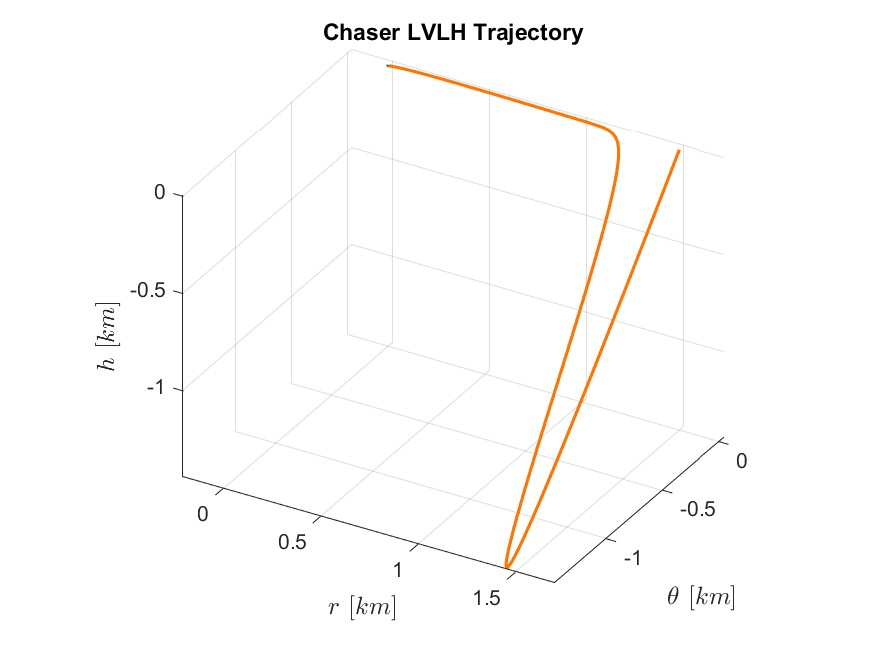
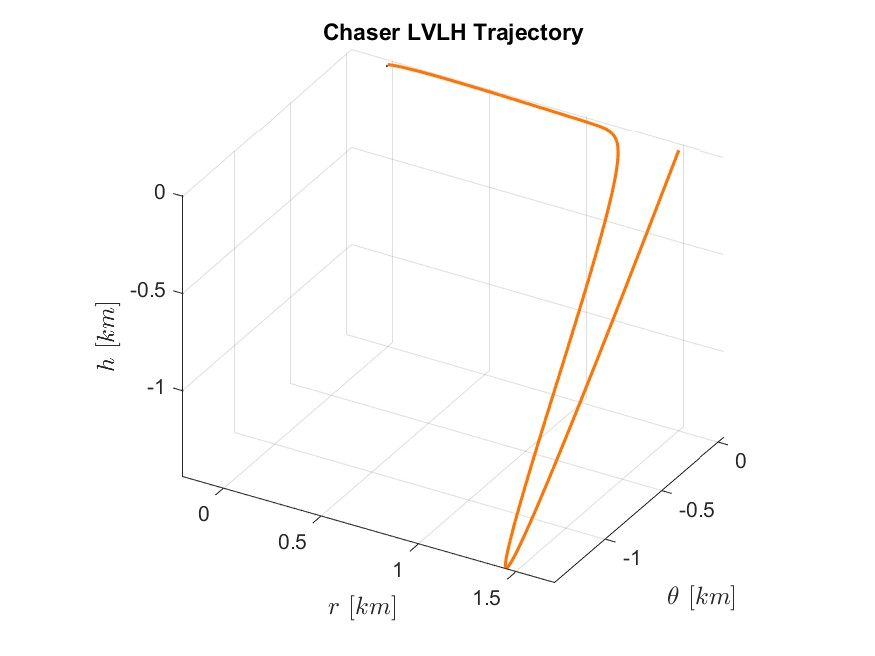
requires fixing

diff --git a/Library/Dario/ChebyschevReferenceTrajectory.m b/Library/Dario/ChebyschevReferenceTrajectory.m
@@ -1,4 +1,4 @@
-function [RHOrefPPs, viapoints, tspan_viapoints] = ChebyschevReferenceTrajectory(initialRelativeState, finalRelativeState, t0, tf)
+function [RHOrefPPs, viapoints, tspan_viapoints] = ChebyschevReferenceTrajectory(TC0, TCf, t0, tf)
 % Description: this function computes reference trajectory that should be followed by
 % the chaser during the approach to the target (rendezvous). This is
 % carried out in target LVLH frame, so we work with relative distances
@@ -17,22 +17,26 @@ function [RHOrefPPs, viapoints, tspan_viapoints] = ChebyschevReferenceTrajectory
 % 
 % Credits: This function was developed building upon a core reference 
 % provided by Dario Sanna.
+% 
+% Note: I have added the trajectory verification step.
+
+global DU
 
 % Initial conditions
-rho_r0 = initialRelativeState(7);
-rho_theta0 = initialRelativeState(8);
-rho_h0 = initialRelativeState(9);
+rho_r0 = TC0(7);
+rho_theta0 = TC0(8);
+rho_h0 = TC0(9);
 rho_dot_r0 = 0;
 rho_dot_theta0 = 0;
 rho_dot_h0 = 0;
 
 % Final conditions
-rho_rf = finalRelativeState(7); 
-rho_thetaf = finalRelativeState(8);
-rho_hf = finalRelativeState(9);
-rho_dot_rf = finalRelativeState(10);
-rho_dot_thetaf = finalRelativeState(11);
-rho_dot_hf = finalRelativeState(12);
+rho_rf = TCf(7); 
+rho_thetaf = TCf(8);
+rho_hf = TCf(9);
+rho_dot_rf = TCf(10);
+rho_dot_thetaf = TCf(11);
+rho_dot_hf = TCf(12);
 
 % Generation of via points
 theta0 = pi;
@@ -40,9 +44,8 @@ finalAngle_r = finalAngle(rho_r0,rho_rf, rho_dot_rf, tf, t0,theta0);
 finalAngle_theta = finalAngle(rho_theta0,rho_thetaf, rho_dot_thetaf,tf,t0,theta0);
 finalAngle_h = finalAngle(rho_h0,rho_hf, rho_dot_hf, tf, t0,theta0);
 
-
-N = 2;          % set the n° of viapoints
-% N = fix((tf-t0)*TU/180);
+% Check Free Trajectory
+N = 2;          % n° of viapoints
 
 tspan_viapoints = zeros(N,1);
 for i = 1 : N
@@ -53,8 +56,6 @@ rho_r = Chebspace(rho_r0, rho_rf, pi, finalAngle_r, N)';
 rho_theta = Chebspace(rho_theta0, rho_thetaf, pi, finalAngle_theta, N)';
 rho_h = Chebspace(rho_h0, rho_hf, pi, finalAngle_h, N)';
 
-
-
 % Compute Reference trajectory (spline)
 pp_rho_r = csape(tspan_viapoints,[rho_dot_r0 rho_r' rho_dot_rf], [0,1]); 
 pp_rho_theta = csape(tspan_viapoints,[rho_dot_theta0 rho_theta' rho_dot_thetaf], [0,1]); 
@@ -62,5 +63,60 @@ pp_rho_h = csape(tspan_viapoints,[rho_dot_h0 rho_h' rho_dot_hf], [0,1]);
 
 RHOrefPPs = [pp_rho_r; pp_rho_theta; pp_rho_h];
 viapoints = [rho_r, rho_theta, rho_h];
+
+
+M = 1000;   % n° of points for sample tspan
+tspan_check = linspace(t0, tf, M)';
+
+tol = 10e-3/DU;      % 10m of emergency sphere tolerance
+fail = 0;
+
+for j = 1 : M
+    RHOref_check = ppsval(RHOrefPPs, tspan_check(j));
+    if norm(RHOref_check(1:3)) <= tol
+        fprintf('Switching to 3 Via Points Method.\n')
+        fail = 1;
+        break
+    end
+end
+
+if fail
+
+    % Set Additional Via Point
+    N = 3;          % n° of viapoints
+    
+    tspan_viapoints = zeros(N,1);
+    for i = 1 : N
+        tspan_viapoints(i) = t0 + (i-1)/(N-1) * (tf-t0);    % epoch of each via point
+    end
+    
+    rho_r = Chebspace(rho_r0, rho_rf, pi, finalAngle_r, N)';
+    rho_theta = Chebspace(rho_theta0, rho_thetaf, pi, finalAngle_theta, N)';
+    rho_h = Chebspace(rho_h0, rho_hf, pi, finalAngle_h, N)';
+    
+    % Compute Reference trajectory (spline)
+    pp_rho_r = csape(tspan_viapoints,[rho_dot_r0 rho_r' rho_dot_rf], [0,1]); 
+    pp_rho_theta = csape(tspan_viapoints,[rho_dot_theta0 rho_theta' rho_dot_thetaf], [0,1]); 
+    pp_rho_h = csape(tspan_viapoints,[rho_dot_h0 rho_h' rho_dot_hf], [0,1]); 
+    
+    RHOrefPPs = [pp_rho_r; pp_rho_theta; pp_rho_h];
+    viapoints = [rho_r, rho_theta, rho_h];
+    
+    
+    M = 1000;   % n° of points for sample tspan
+    tspan_check = linspace(t0, tf, M)';
+    RHOref_check = ppsval(RHOrefPPs, tspan_check);
+    
+    tol = 10e-3/DU;      % 10m of emergency sphere tolerance
+    
+    for j = 1 : M
+        if norm(RHOref_check(j, 1:3)) >= tol
+            fprintf('Damn.\n')
+            break
+        end
+    end
+
+end
+
 
 end

diff --git a/main.m b/main.m
@@ -63,7 +63,7 @@ opt.N = 1000;
 [X0t_MCI, COE0t, MEE0t, EarthPPsMCI, DSGPPsMCI, SunPPsMCI, MoonPPsECI, time, t0, tf, opt.N] = ...
     EphemerisHandler(deltaE, psiM, deltaM, opt.N, date0, datef);
 
-% Combine the Target and Chaser States into Y State
+% Combine the Target and Chaser States into TC ~ [Target; Chaser] State
 TC0 = [MEE0t; RHO0_LVLH];
 
 % Open log file
@@ -110,6 +110,11 @@ pbar = waitbar(0, 'Performing the Chaser Trajectory Propagation');
 [tspan_back, TC_backdrift] = ode113(@(t, TC) NaturalRelativeMotion(t, TC, EarthPPsMCI, SunPPsMCI, ...
     muE, muS, MoonPPsECI, deltaE, psiM, deltaM, t0, tf, omegadotPPsLVLH), tspan_back, TCf_backdrift, optODE_back);
 close(pbar);
+
+% Check Successful Back Drift
+if length(tspan_back) >= opt.N
+    error('Could not complete Backwards Natural Drift with the given Initial Conditions.')
+end
 
 % Retrieve the States and epoch for Final Drift
 TC0_backdrift = TC_backdrift(end, :)';
@@ -160,7 +165,7 @@ bookmark = length(tspan_ctrl);
 optODE_fwd = odeset('RelTol', 1e-9, 'AbsTol', 1e-9, 'Events', @(t, Y) driftstop_fwd(t, Y));
 
 % Define the Forward Drift tspan
-tspan_drift = linspace(tspan_ctrl(end), tf, opt.N/10);
+tspan_drift = linspace(tspan_ctrl(end), tf, opt.N);
 
 % Define Initial Conditions
 TC0_drift = TCC(end, 1:12);
@@ -170,6 +175,11 @@ pbar = waitbar(0, 'Performing the Chaser Trajectory Propagation');
 [tspan_drift, TC_drift] = ode113(@(t, TC) NaturalRelativeMotion(t, TC, EarthPPsMCI, SunPPsMCI, ...
     muE, muS, MoonPPsECI, deltaE, psiM, deltaM, t0, tf, omegadotPPsLVLH), tspan_drift, TC0_drift, optODE_fwd);
 close(pbar);
+
+% Check Successful Back Drift
+if length(tspan_drift) >= opt.N
+    error('Could not complete Forward Natural Drift with the given Initial Conditions.')
+end
 
 save('Data/temp/Propagation Completed.mat');
 
@@ -195,6 +205,11 @@ RHO_MCI = zeros(length(tspan), 6);
 Xc_MCI = zeros(length(tspan), 6);
 dist = zeros(length(tspan), 1);
 
+terminal_tol = 50e-3/DU;    % tolerance for terminal trajectory flag
+RHOT_LVLH = [];
+terminal_flag = zeros(length(tspan), 1);
+terminal_signchange = 0;
+
 % Perform Post-Processing
 pbar = waitbar(0, 'Performing the Final Post-Processing');
 for i = 1 : size(RHO_LVLH, 1)
@@ -204,6 +219,23 @@ for i = 1 : size(RHO_LVLH, 1)
 
     dist(i) = norm(RHO_MCI(i, 1:3));
 
+    if dist(i) <= terminal_tol
+        RHOT_LVLH = [RHOT_LVLH; RHO_LVLH(i, :)];
+        terminal_flag(i) = 1;
+        if i > 1
+            if terminal_flag(i-1) == 0
+                terminal_signchange = terminal_signchange + 1;
+            end
+        end
+    else
+        terminal_flag(i) = 0;
+        if i > 1
+            if terminal_flag(i-1) == 1
+                terminal_signchange = terminal_signchange + 1;
+            end
+        end
+    end
+
     waitbarMessage = sprintf('Final Post-Processing Progress: %.2f%%\n', i/length(tspan)*100);
     waitbar(i/length(tspan), pbar, waitbarMessage);      % update the waitbar
 
@@ -212,7 +244,7 @@ close(pbar)
 
 save('Data/temp/Post-Processing.mat');
 
-return
+
 %% Visualize the Results
 
 close all
@@ -245,6 +277,15 @@ C_LVLH = DrawTrajLVLH3D(RHO_LVLH(:, 1:3)*DU);
 title('Chaser LVLH Trajectory')
 if opt.saveplots
     saveas(gcf, strcat('Output/Trajectory LVLH.jpg'))
+end
+
+
+% Plot the evolution of the Terminal Chaser State in LVLH
+figure('name', 'Terminal Chaser Trajectory in LVLH Space')
+C_LVLH = DrawTrajLVLH3D(RHOT_LVLH(:, 1:3)*DU);
+title('Terminal Chaser LVLH Trajectory')
+if opt.saveplots
+    saveas(gcf, strcat('Output/Trajectory Terminal LVLH.jpg'))
 end
 
 
